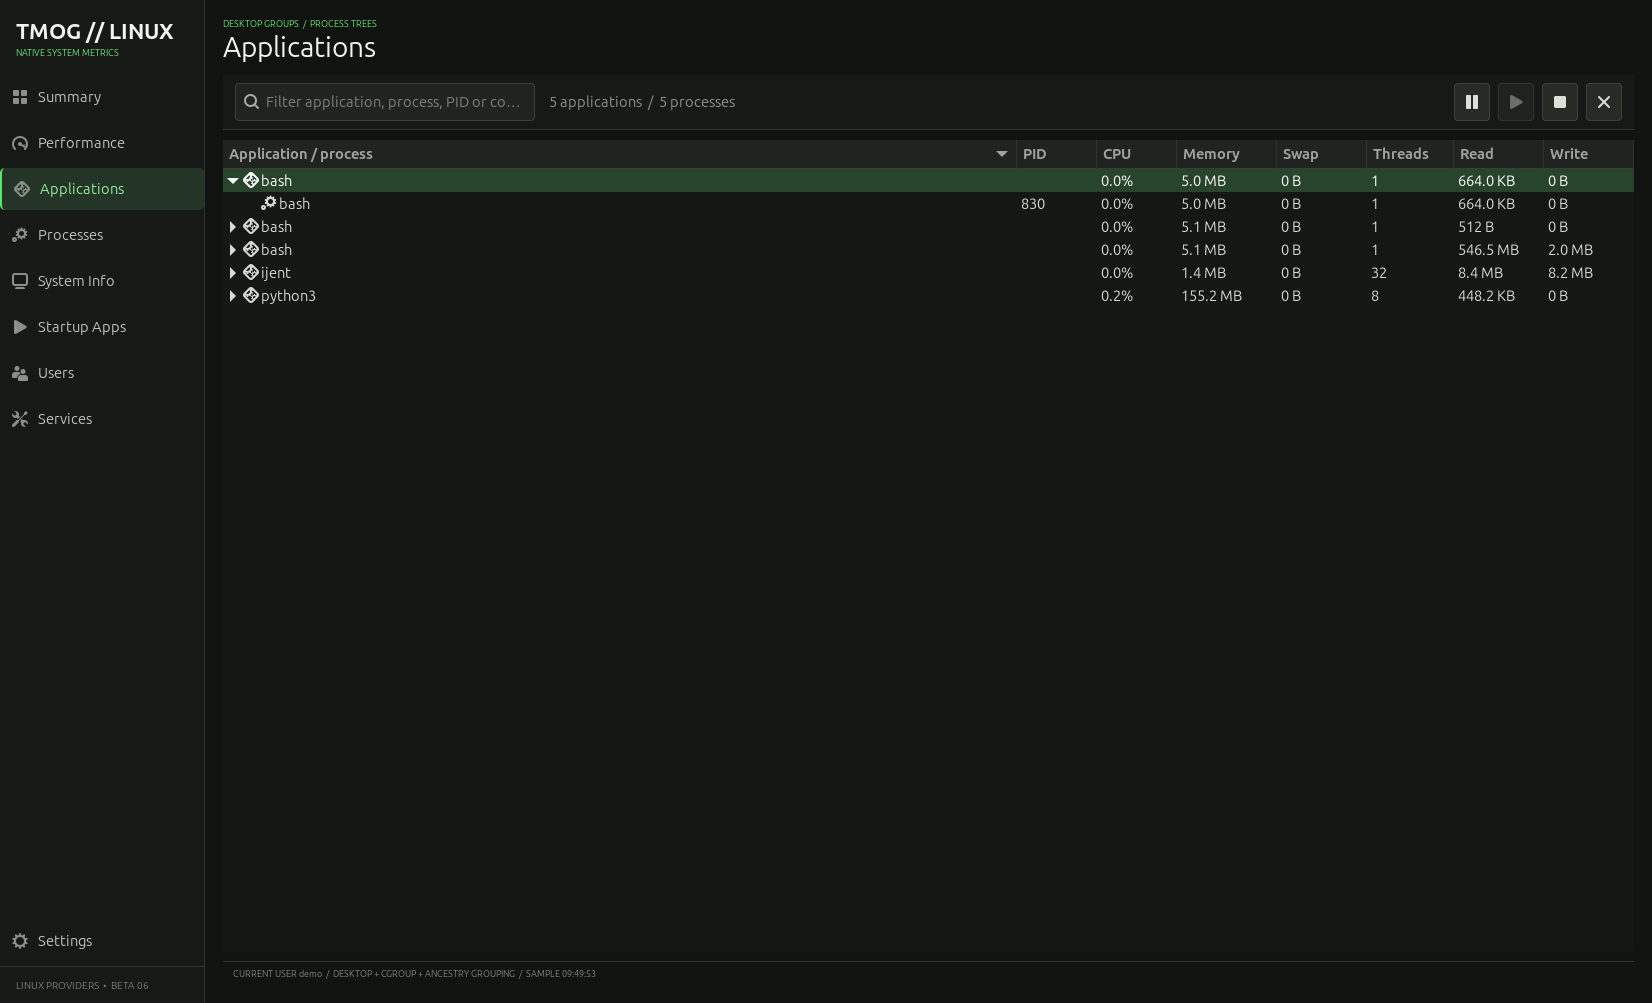
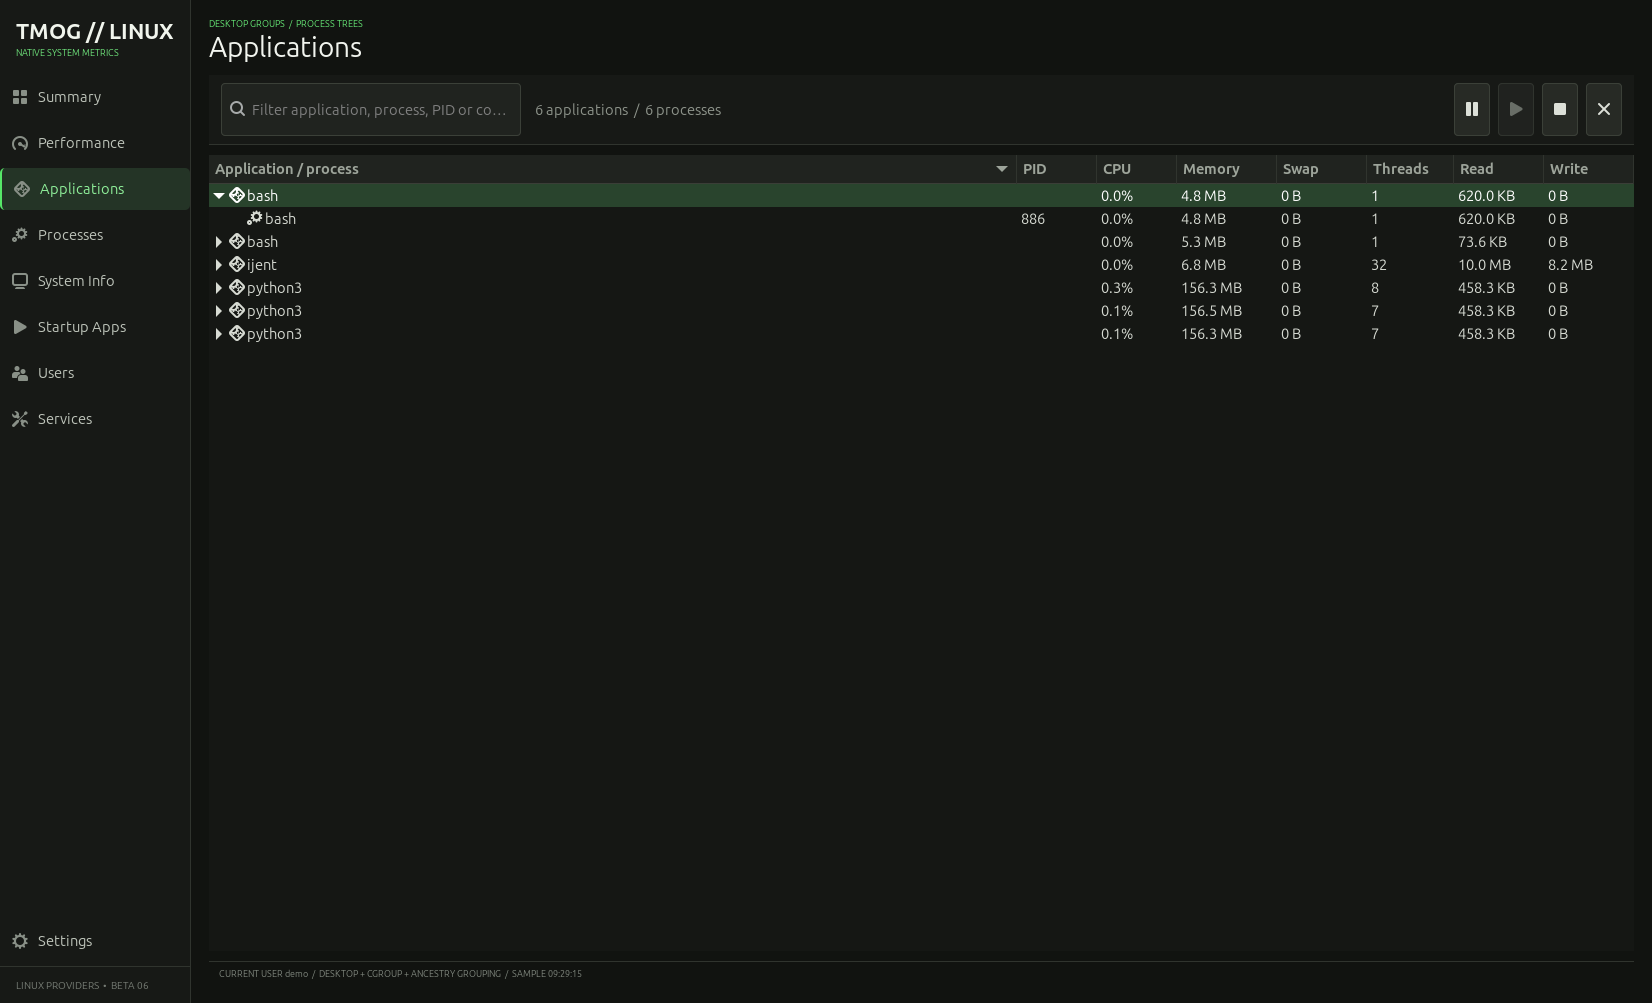
Release beta06.4-r16: refresh the complete feature gallery for the responsive layout

Changed region(s): [[0.0926, 0.0927, 0.9879, 0.34], [0.1235, 0.9581, 0.3396, 0.989], [0.1235, 0.0, 0.2161, 0.0618]]

diff --git a/README.md b/README.md
@@ -29,7 +29,7 @@
   </tr>
 </table>
 
-> 截图中的主机名、账户名和网络地址已替换为公开演示值；性能数字只是采集瞬间的状态，不代表基准测试结果。点击任意截图可以查看原尺寸。
+> 本页 22 张 `*-latest.png` 均由 beta06.4-r16 同批生成。截图中的主机名、账户名和网络地址已替换为公开演示值；性能数字只是采集瞬间的状态，不代表基准测试结果。点击任意截图可以查看原尺寸。
 
 ## 功能总览
 
